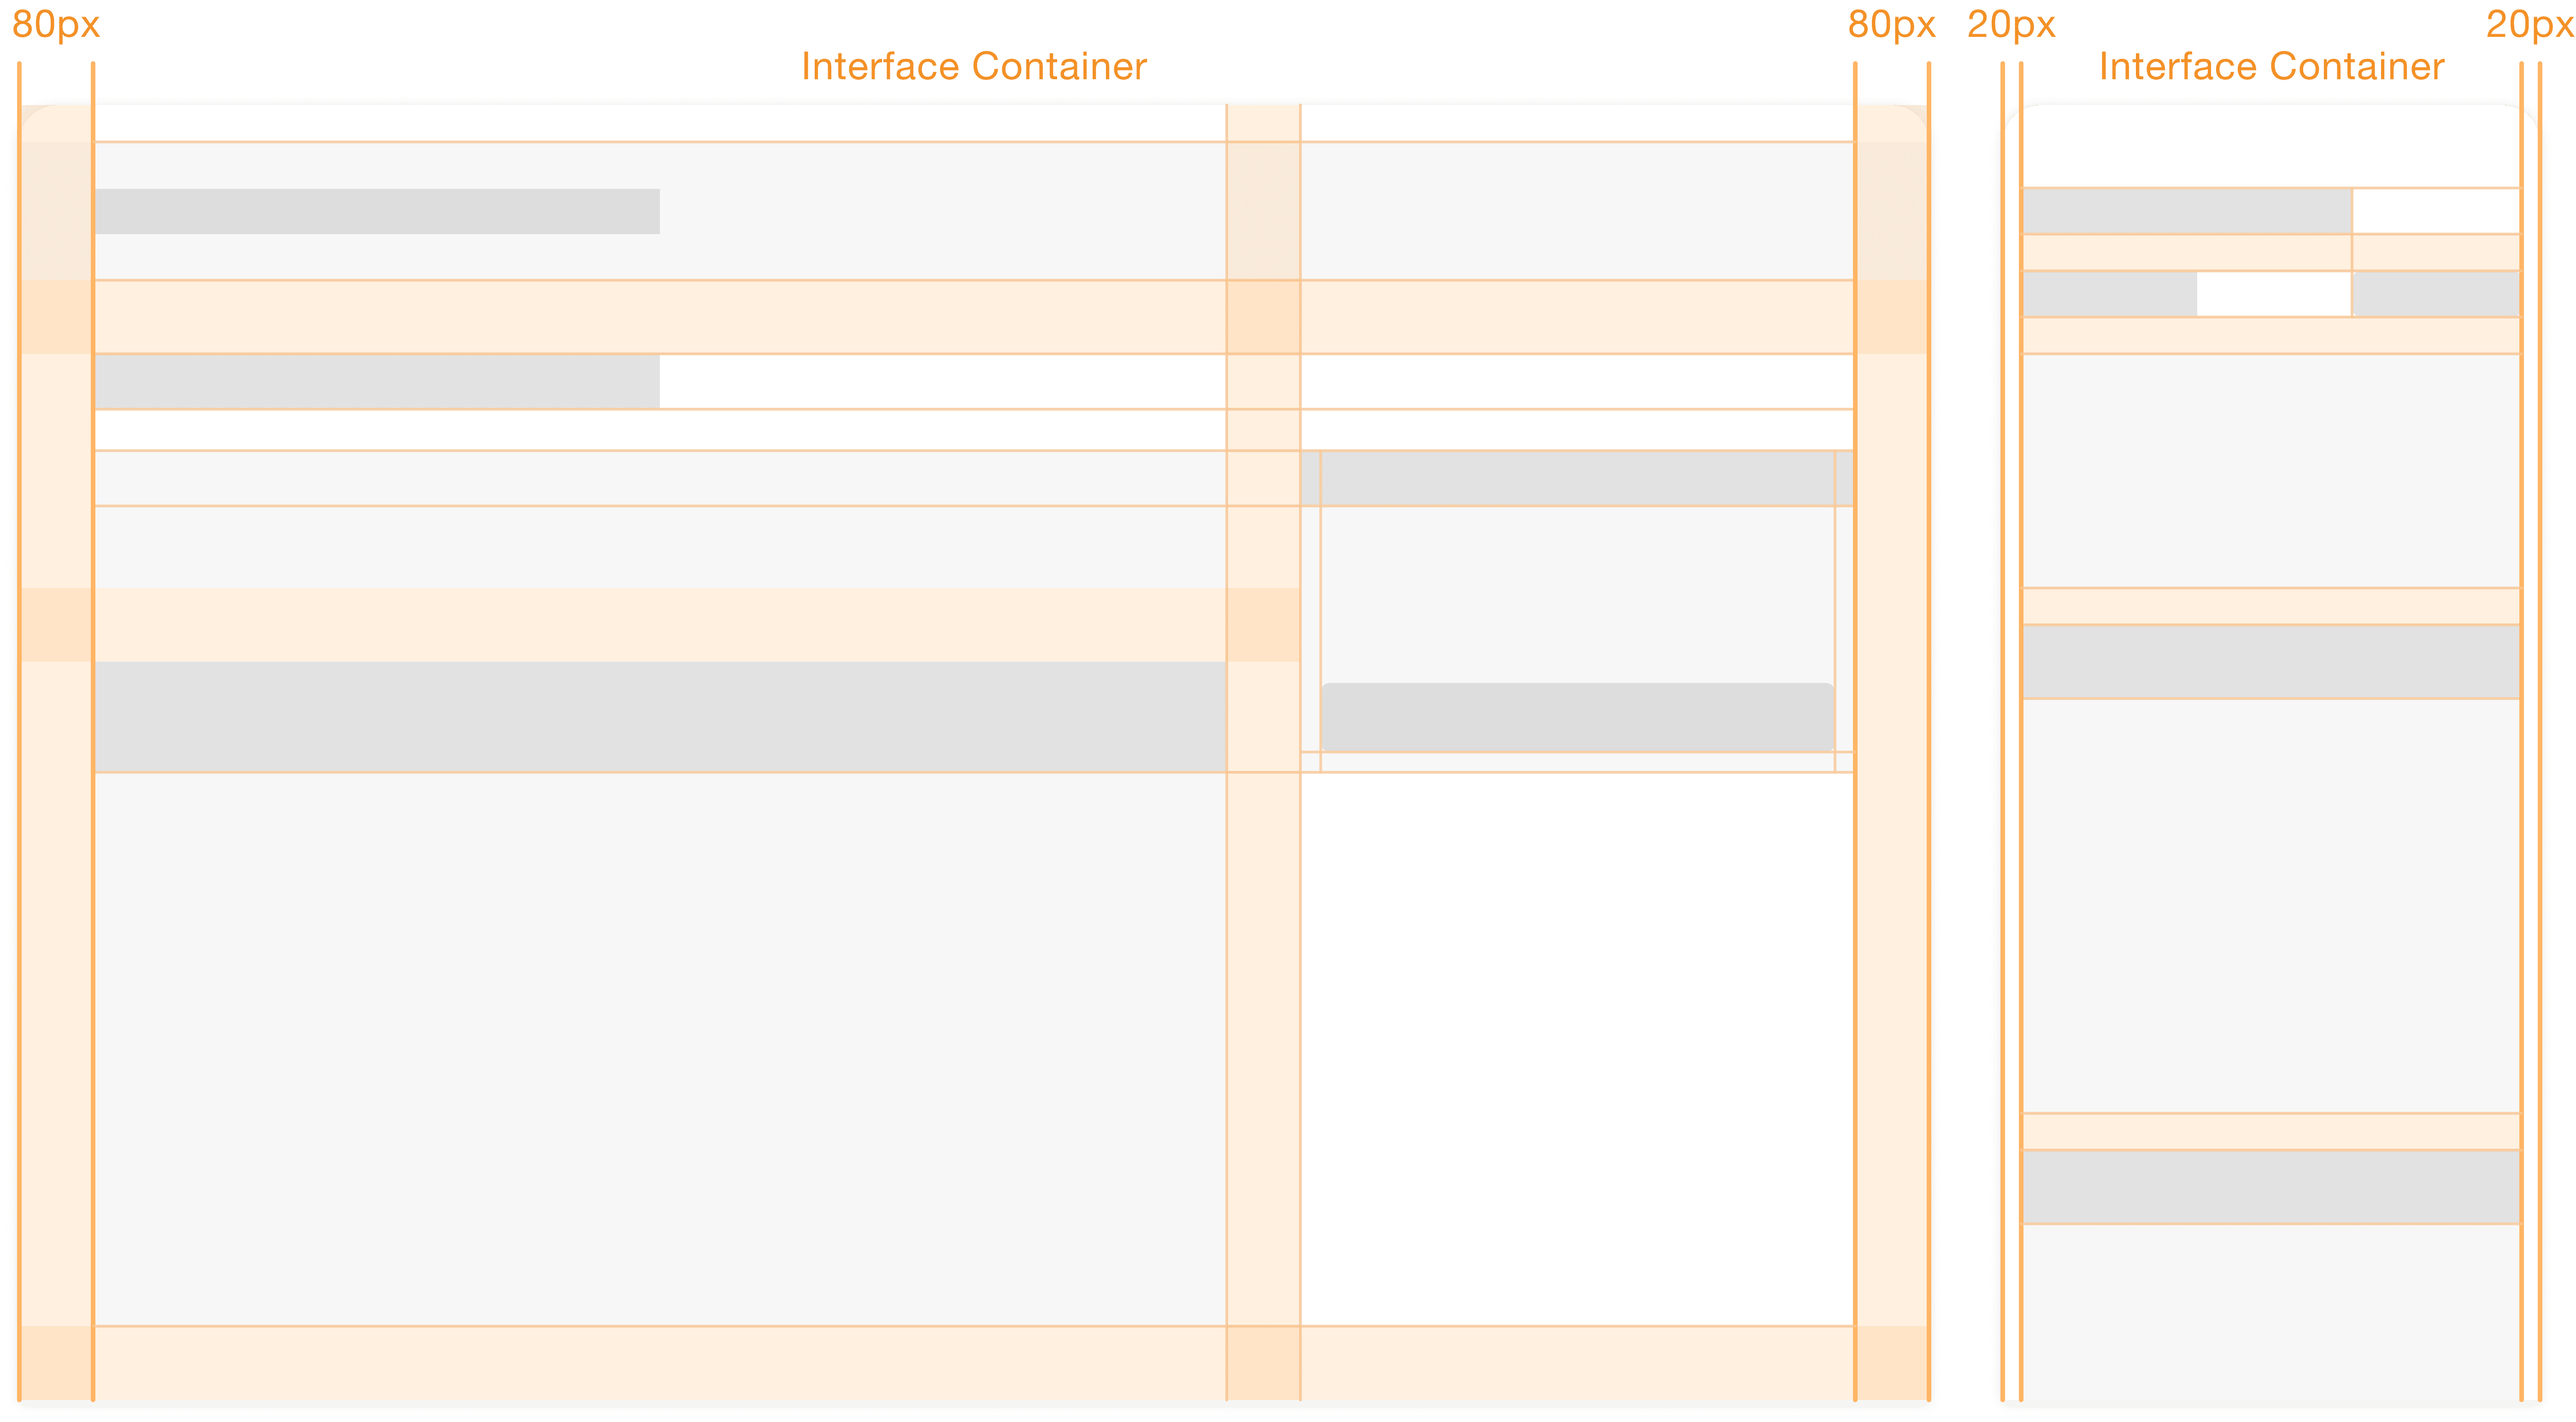
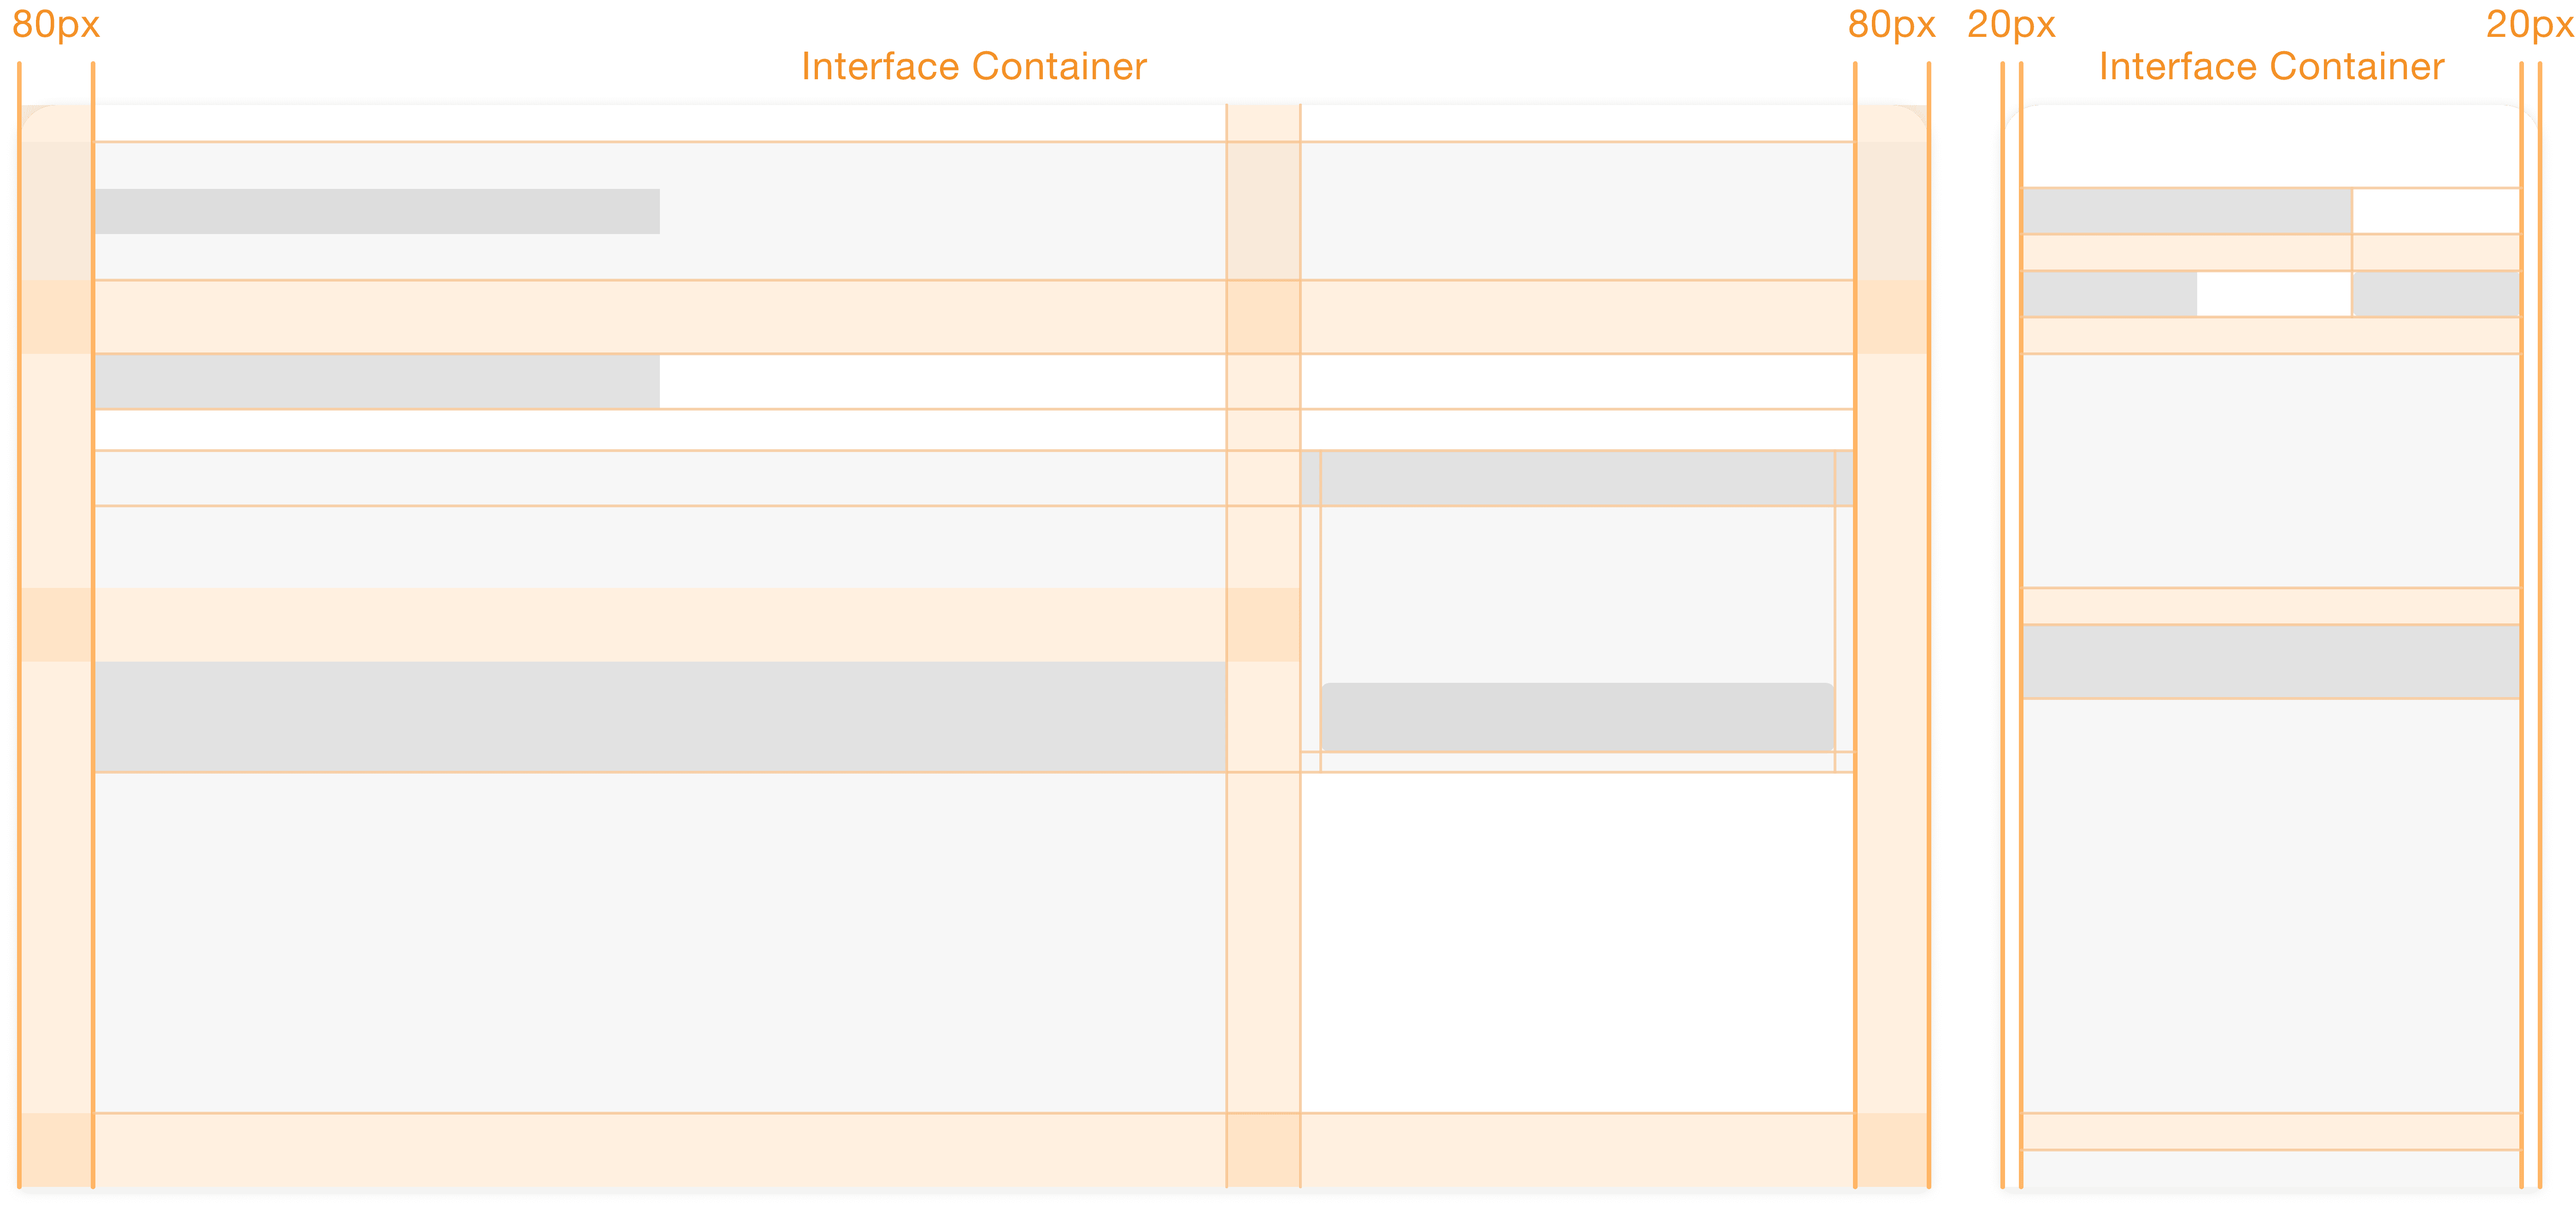
update

diff --git a/NYTransitMuseum.html b/NYTransitMuseum.html
@@ -501,7 +501,7 @@
     </div>
     <div class="wow animate__fadeInUp" data-wow-duration="1.2s" data-wow-delay="0s" data-wow-offset="100">
         <div id="page13">
-            <img alt="pic" src="./static/image/ia/page13.png" style="height:617.2px;margin:158.4px 0 0 191.6px">
+            <img alt="pic" src="./static/image/ia/page13.png" style="width:1118px;margin:158.4px 0 0 191.6px">
             <p class="title" style="margin:53.6px 0 0 198px;">Grid System</p>
             <p class="font5" style="margin:98.0px 0 0 198px;">flexible, modular grid system for present content and
                 future

diff --git a/static/css/ia.css b/static/css/ia.css
@@ -188,7 +188,7 @@
 
 #page13 {
   width: 1494px;
-  height: 830px;
+  height: 737.6px;
   margin: 0 auto;
   position: relative;
 }
